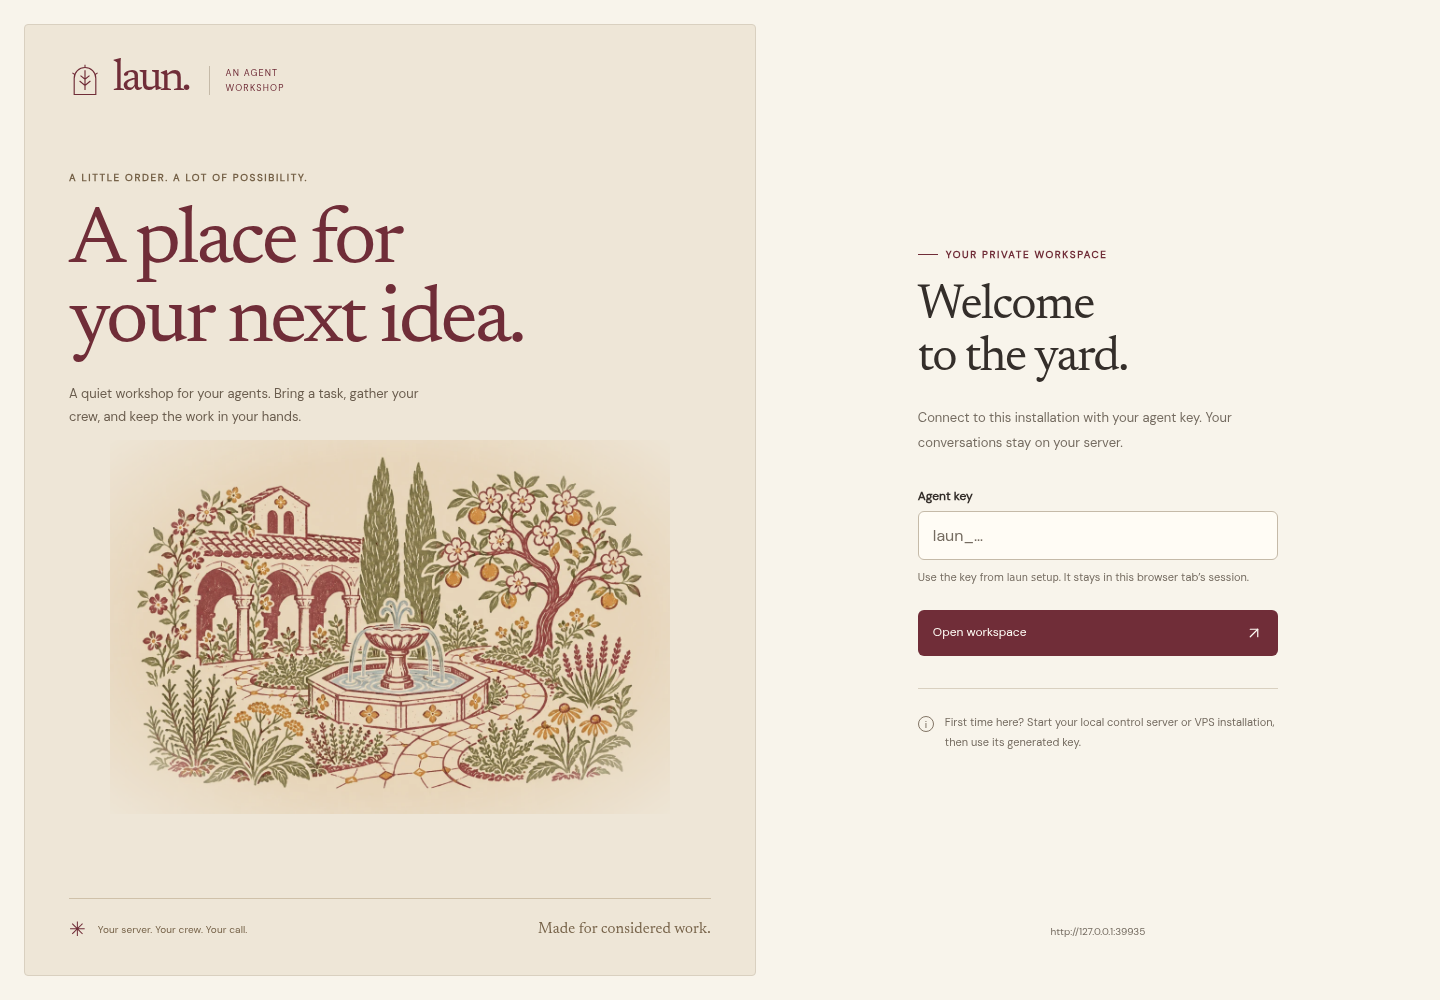
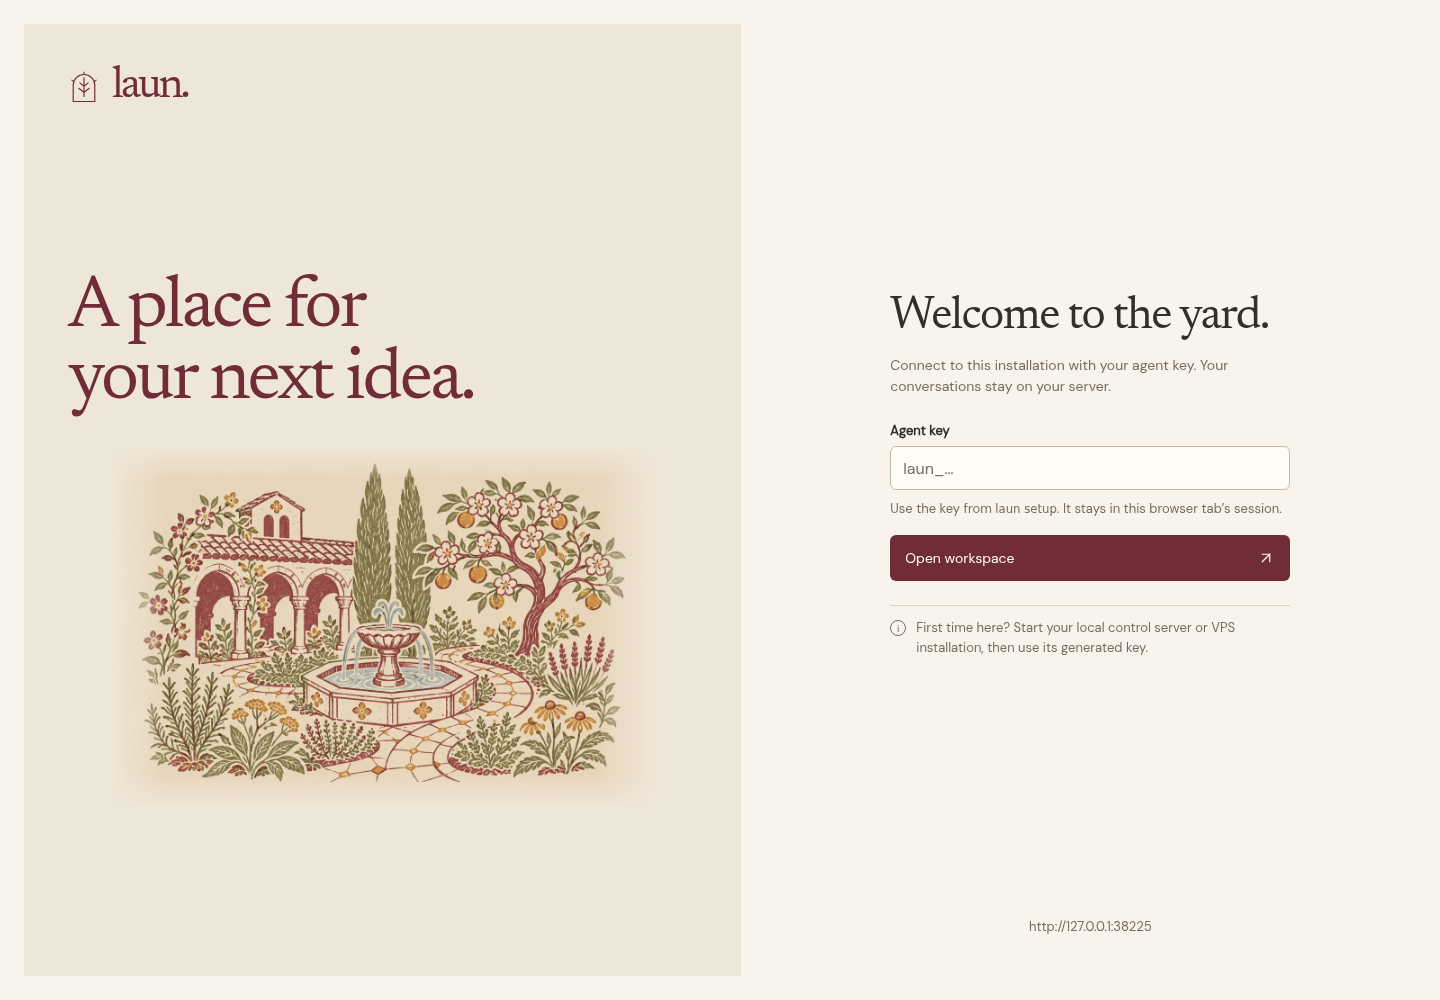
docs: record frontend repairs and refresh screenshots

diff --git a/docs/design/frontend-layout-audit.md b/docs/design/frontend-layout-audit.md
@@ -1,6 +1,6 @@
 # Frontend layout audit
 
-Reviewed 2026-11-14 against `667d2c8a` following the first paper-and-ink rework. All findings below are **open**. This change documents the problems; it does not fix the interface.
+Reviewed 2026-11-14 against `667d2c8a` following the first paper-and-ink rework. The screenshots and measurements below record that baseline. See the [repair record](#repair-record) for the current implementation.
 
 The redesign changed the palette, type and imagery, but left substantial problems in space allocation, responsive behavior, form readability and action placement. The earlier statement that the design passed validation was too broad. Functional smoke tests passed; those results did not establish visual quality or usable layouts.
 
@@ -11,7 +11,7 @@ The review uses the actual app and disposable controller/Pi demo fixture, with s
 Captured 23 screenshots covering login, primary setup, a populated conversation, pending permission review, Gatekeeper advice and a delegated thread. Sizes include 1440×900, 1024×768, adjacent breakpoint widths 991/990 and 681/680, 768×768, 390×667 and 320×568. Permission screenshots explicitly open the inspector on phones. Ordinary workspace screenshots preserve the app's automatic inspector collapse when crossing 990px.
 
 - [Measurements](frontend-layout-audit/measurements.json) record bounding boxes, actual font sizes, control dimensions and selected-option text widths.
-- [Capture script](../../apps/gateway/test/capture-layout-review.ts) reproduces the evidence with `bun apps/gateway/test/capture-layout-review.ts`. Set `CHROMIUM_PATH` if Chromium is not detected automatically.
+- [Capture script](../../apps/gateway/test/capture-layout-review.ts) records the current layout with `bun apps/gateway/test/capture-layout-review.ts`. Output defaults to `/tmp/laun-layout-review`. Set `LAUN_LAYOUT_SHOTS` to choose another directory or `CHROMIUM_PATH` to select a browser.
 - Screenshots are viewport captures, not full-page captures, so content outside the visible area stays evident.
 
 P1 means a primary reading or decision task is materially impaired. P2 means a recurring usability or responsive-layout defect. P3 means visual quality or maintainability. These priorities do not imply a permission bypass or data-loss defect.
@@ -160,6 +160,17 @@ Acceptance: label the existing check according to its limited scope. Add checks 
 3. Rework pane collapse, inspector navigation, control sizing and login sizing: L05, L07, L09 and L11.
 4. Settle typography and component ownership: L10 and L13. Update the validation language and add defect-specific checks as each repair lands: L14.
 
-## Not established by this review
+## Repair record
 
-Real iOS/Android keyboard behavior, browser chrome/visual-viewport resizing, 200% zoom, screen-reader operation, long crew/thread lists, very long names, large code blocks, every error/recovery dialog and non-Chromium rendering still need review. The captures do not establish that scrolled-off actions are unreachable. Drawer keyboard focus containment also needs a dedicated interaction check; it is not claimed as a verified defect here.
+| Findings | Changes |
+| --- | --- |
+| L01–L02 | Shorter permission labels fit native selects. The setup title and actions stay in place while the fields scroll. |
+| L03, L12 | The permission card leads with the action, destination, and readable preview. Decision buttons are grouped together. Technical details retain the server-supplied argument preview and digest. |
+| L04–L06, L08 | The thread title gets its own space on phones. Readiness uses a compact line and the composer starts at one row. The latest-message control sits in the layout above the composer. Optional panes become drawers before they consume reading space. |
+| L07, L09–L10, L13 | The inspector uses a single tab row and compact heading. Workspace controls share a hit-area size and working text has a consistent type scale. Each pane has a single responsive layout. |
+| L11 | The login switches to a single column when the viewport gets narrow or short. The origin footer stays in the page flow. |
+| L14 | `bun run test:design` runs targeted Chromium layout checks in source and release CI. `bun run demo:capture` produces screenshots for review. |
+
+## Further device and accessibility checks
+
+Real iOS/Android keyboard behavior, mobile browser chrome, 200% zoom, screen-reader operation, long crew and thread lists, very long names, large code blocks, every error and recovery dialog, and non-Chromium rendering still need review.

diff --git a/docs/design/frontend-rework.md b/docs/design/frontend-rework.md
@@ -37,12 +37,12 @@ Built-in imagegen, `illustration-story`: an enclosed medieval garden with founta
 
 ## Validation
 
-**Visual review remains open.** The later [layout audit](frontend-layout-audit.md) documents 14 open layout, hierarchy and validation findings with 23 screenshots. The passing checks below establish only their stated functional and geometry checks; they do not establish visual quality or usable layouts. The initial completion report overstated what had been verified.
+The [layout audit](frontend-layout-audit.md) records 14 findings and preserves the baseline screenshots. Its [repair record](frontend-layout-audit.md#repair-record) tracks the follow-up layout changes and their checks. Visual hierarchy is reviewed with screenshots.
 
 Baseline: the full existing UI smoke passed before edits, including durable conversations, permission decisions, delegation, recovery, retention, workers and mobile navigation. Screenshots are in `/tmp/laun-before` for local comparison.
 
 The redesigned app passed the same full browser workflow suite with zero browser exceptions. Typecheck passed. All 23 controller-source and yard-setup tests passed outside the restricted sandbox, including a new byte-for-byte asset install check. Initial sandbox failures in setup tests did not reproduce outside the sandbox.
 
-All seven [workflow screenshots](../demos.md) were regenerated with `bun run demo:capture`, including setup, desktop, delegation, approvals, Gatekeeper, yards and mobile. [Welcome](../images/welcome.png) is also captured. The responsive audit checks login, font loading, image loading, workspace overflow and dialogs at 320, 390, 768, 1024 and 1440 pixels. It caught and resolved the login illustration's intrinsic-height and mobile visibility issues.
+The [workflow gallery](../demos.md) is regenerated with `bun run demo:capture`. The layout suite exercises login, setup, populated conversations, the inspector and permission decisions on desktop, tablet and short phone viewports.
 
 Final artwork: `apps/gateway/public/v2/assets/garden.webp` (210 KB), generated with built-in imagegen using the illustration prompt above. Concept board: `docs/design/frontend-concepts.webp` (299 KB). Fonts, icons and artwork are local; there are no added runtime dependencies or external asset requests. Component bases are native HTML adaptations of shadcn styling and state conventions, rather than React components. Licenses are in `apps/gateway/public/v2/THIRD_PARTY.md` and the font assets directory.

diff --git a/docs/design/README.md b/docs/design/README.md
@@ -1,6 +1,6 @@
 # Laun: durable mower harness
 
-Frontend: [rework plan](frontend-rework.md) and [open layout audit with screenshot evidence](frontend-layout-audit.md).
+Frontend: [rework plan](frontend-rework.md) and [layout audit with screenshot evidence and repair record](frontend-layout-audit.md).
 
 Design and source audit dated **2026-11-14**, based on v1 commit `cff77fd8`.
 This is the independently reviewed original architecture and delivery plan.

diff --git a/README.md b/README.md
@@ -179,6 +179,7 @@ bun run build
 bun run test
 nix-shell --arg withBrowser true
 bun run test:ui
+bun run test:design
 bun run demo:capture
 ```
 
